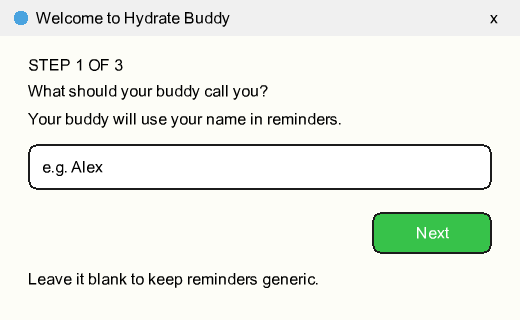
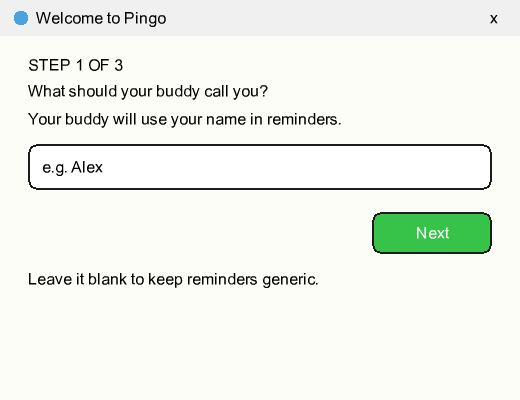
docs: render both onboarding screenshots at the same size
Step 1 was 320px tall and step 2 was 400px, so the side-by-side images
in the README were mismatched. Both now use the wizard's fixed height,
and the title bar shows the new app name.

diff --git a/scripts/make-onboarding-shots.js b/scripts/make-onboarding-shots.js
@@ -15,6 +15,7 @@ const WHITE = C(255, 255, 255);
 const GREEN = C(55, 194, 74);
 const BAR = C(240, 240, 240);
 const W = 520;
+const H = 400; // both steps share one window size, like the real wizard
 
 function fillRect(img, x, y, w, h, color) {
   const x0 = Math.max(0, x | 0),
@@ -82,7 +83,6 @@ function titleBar(img) {
 let fontsRef;
 
 function step1(fonts) {
-  const H = 320;
   const img = new Jimp(W, H, CREAM);
   titleBar(img);
   const pad = 28;
@@ -126,7 +126,6 @@ function step1(fonts) {
 }
 
 function step2(fonts) {
-  const H = 400;
   const img = new Jimp(W, H, CREAM);
   titleBar(img);
   const pad = 28;
